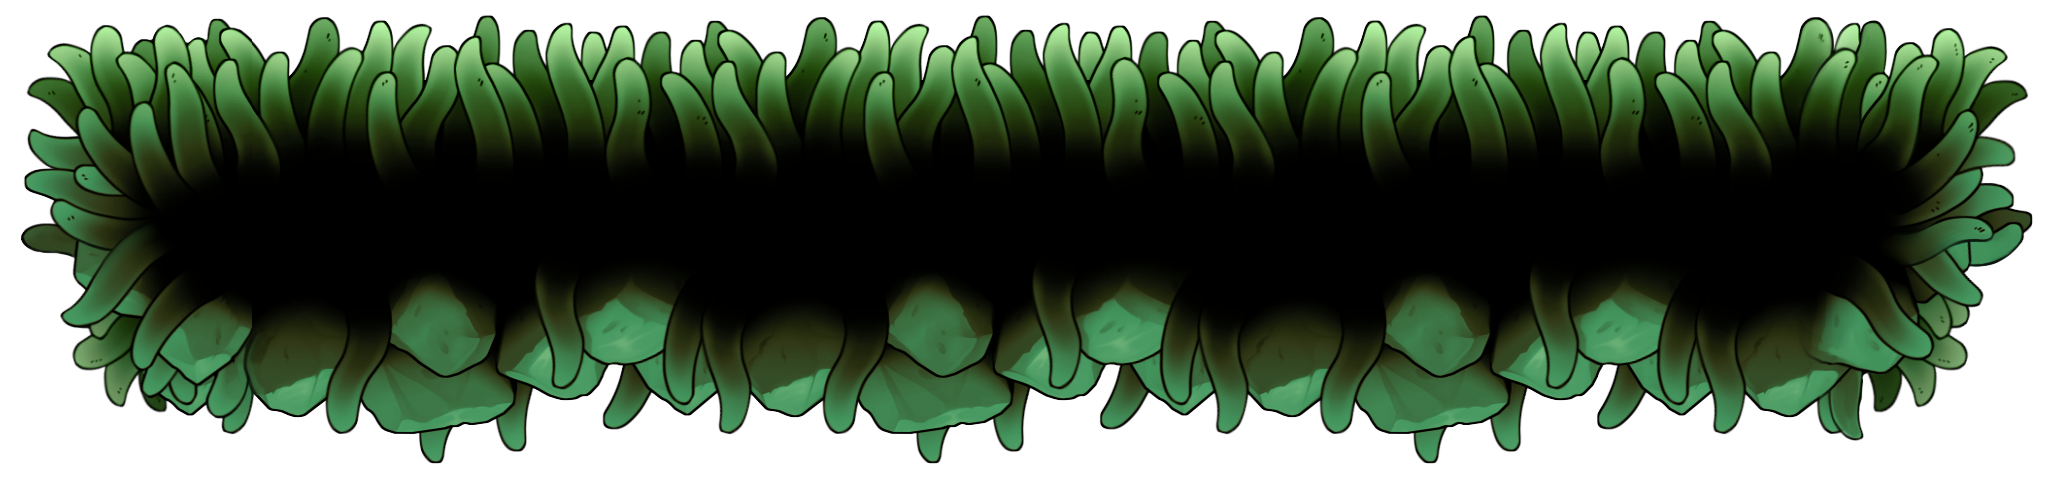
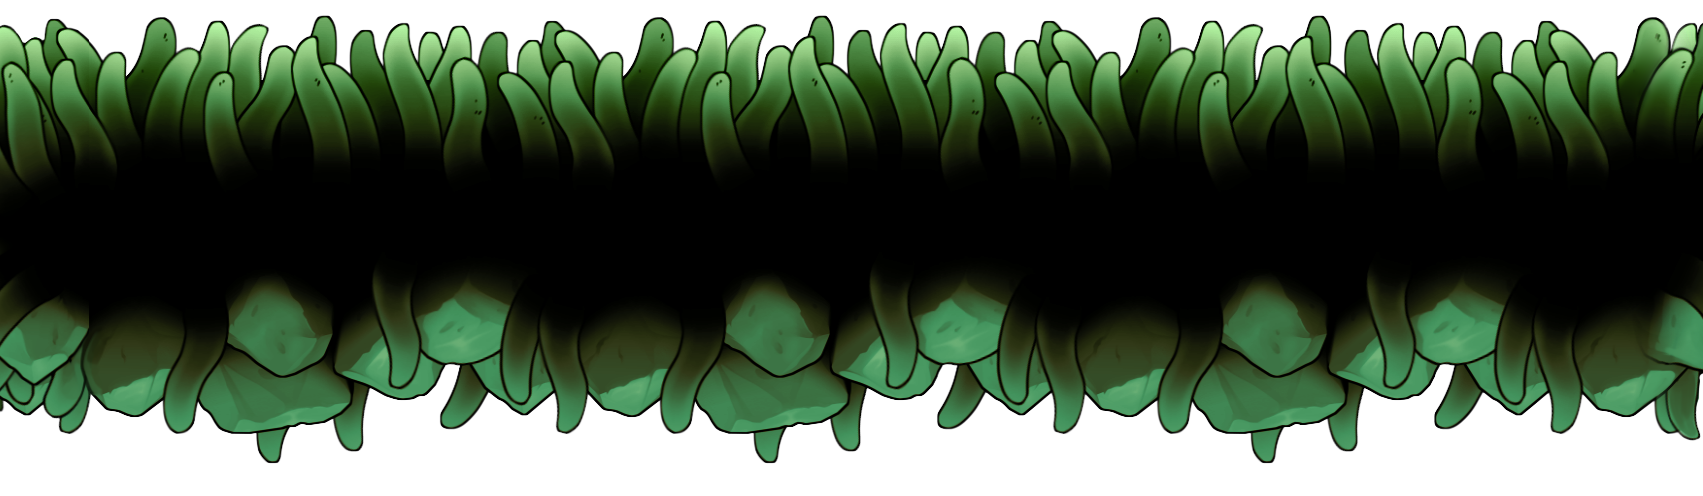
moving ground added with animations

diff --git a/lib/components/ground.dart b/lib/components/ground.dart
@@ -10,10 +10,20 @@ class Ground extends SpriteComponent with HasGameRef<floato>{
 
   @override
   FutureOr<void> onLoad() async{
-    size = Vector2(gameRef.size.x, groundHeight);
+    size = Vector2(2 * gameRef.size.x, groundHeight);
     position = Vector2(0, gameRef.size.y-groundHeight);
 
     sprite = await Sprite.load('ground.png');
   }
 
+  @override
+  void update(double dt){
+    position.x -= groundScrollingSpeed * dt;
+
+    if (position.x + size.x / 2 <= 0){
+      position.x = 0;
+    }
+
+
+  }
 }

diff --git a/lib/constants.dart b/lib/constants.dart
@@ -5,3 +5,4 @@ const double rocketHeight = 40;
 const double gravity = 100;
 const double jumpStrength = -100;
 const double groundHeight = 200;
+const double groundScrollingSpeed = 100;
